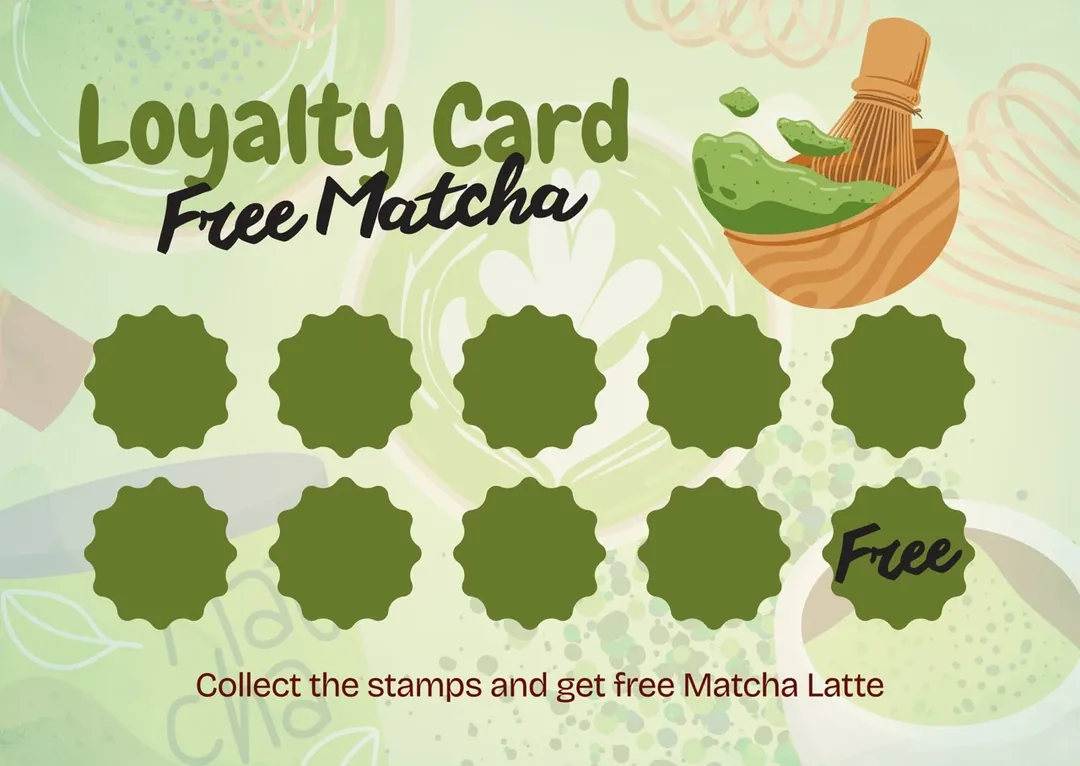
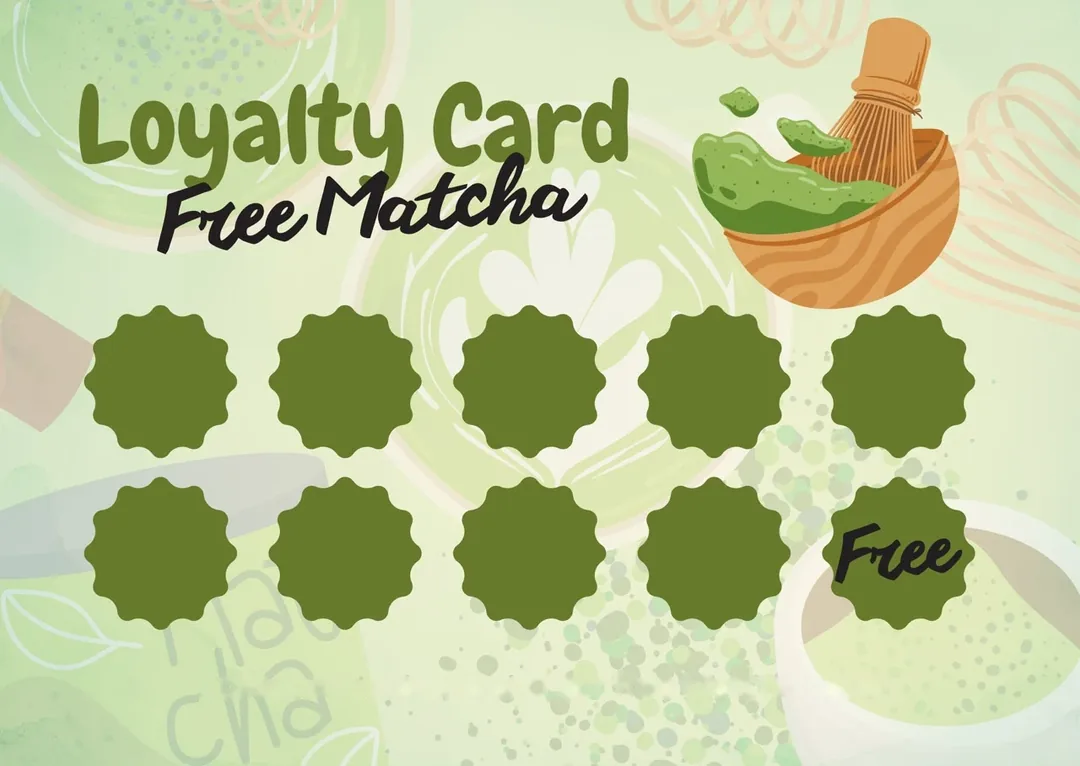
Use the new front card picture with the member's name and card number, and fix the stamp card caption
The front of the loyalty card is now the Mori Matcha picture, sized like the stamp
card, with the member's name and unique card number on a soft strip. The stamp
card's old baked-in caption (free Matcha Latte) is replaced by real text that
says a free drink of your choice, matching the rest of the site.

Changed region(s): [[0.1833, 0.8708, 0.825, 0.9308]]

diff --git a/src/styles/style.css b/src/styles/style.css
@@ -2342,25 +2342,41 @@ button.btn-ghost:hover { background: var(--forest); color: var(--cream-soft); }
 
 .loyalty-front {
   position: relative;
+  aspect-ratio: 1280 / 908;
   overflow: hidden;
-  aspect-ratio: 1.586 / 1;
-  display: flex;
-  flex-direction: column;
-  padding: 7% 8%;
   border-radius: 20px;
-  background: linear-gradient(145deg, #345040 0%, #2d4433 45%, #1c2b1f 100%);
-  color: var(--cream-soft);
-  box-shadow: 0 18px 40px rgba(28, 43, 31, 0.28);
+  background: #d9e8c2;
+  box-shadow: 0 18px 40px rgba(28, 43, 31, 0.2);
+  container-type: inline-size;
+  -webkit-user-select: none;
+  user-select: none;
 }
 
-.loyalty-front-leaf { position: absolute; right: -6%; bottom: -14%; width: 62%; pointer-events: none; }
-.loyalty-front-top { margin: 0; font-size: 0.72rem; letter-spacing: 0.28em; opacity: 0.8; }
-.loyalty-front-brand { margin: auto 0 0; font-family: 'Cormorant Garamond', serif; font-size: clamp(2rem, 8vw, 3rem); letter-spacing: 0.08em; line-height: 1; }
-.loyalty-front-brand span { font-style: italic; letter-spacing: 0.02em; color: #b5cf82; }
-.loyalty-front-tag { margin: 6px 0 0; font-size: 0.74rem; letter-spacing: 0.16em; text-transform: uppercase; opacity: 0.75; }
-.loyalty-front-foot { display: flex; justify-content: space-between; gap: 12px; margin-top: 7%; padding-top: 10px; border-top: 1px solid rgba(236, 225, 200, 0.25); font-size: 0.82rem; letter-spacing: 0.06em; }
-.loyalty-front-foot span:first-child { overflow: hidden; text-overflow: ellipsis; white-space: nowrap; }
-.loyalty-front-foot span:last-child { font-variant-numeric: tabular-nums; letter-spacing: 0.14em; }
+/* Name and card number on a soft frosted strip, so they read clearly on the picture */
+.loyalty-front-bar {
+  position: absolute;
+  left: 4.5%;
+  right: 4.5%;
+  bottom: 5%;
+  display: flex;
+  justify-content: space-between;
+  align-items: flex-end;
+  gap: 3cqw;
+  padding: 2.2cqw 3.2cqw;
+  border: 1px solid rgba(255, 255, 255, 0.65);
+  border-radius: 3.4cqw;
+  background: rgba(247, 251, 240, 0.8);
+  -webkit-backdrop-filter: blur(6px);
+  backdrop-filter: blur(6px);
+  color: var(--forest);
+  box-shadow: 0 6px 18px rgba(28, 43, 31, 0.12);
+}
+
+.loyalty-front-bar small { display: block; font-size: 1.55cqw; letter-spacing: 0.2em; text-transform: uppercase; opacity: 0.7; }
+.loyalty-front-who { min-width: 0; flex: 1; }
+.loyalty-front-who span { display: block; overflow: hidden; text-overflow: ellipsis; white-space: nowrap; font-family: 'Cormorant Garamond', serif; font-size: 4.2cqw; font-weight: 600; line-height: 1.15; }
+.loyalty-front-id { text-align: right; flex: none; }
+.loyalty-front-id span { display: block; font-size: 3.3cqw; font-weight: 500; letter-spacing: 0.14em; font-variant-numeric: tabular-nums; line-height: 1.3; }
 
 .loyalty-back { margin: 0; }
 
@@ -2378,6 +2394,23 @@ button.btn-ghost:hover { background: var(--forest); color: var(--cream-soft); }
 }
 
 .loyalty-sheet-bg { position: absolute; inset: 0; width: 100%; height: 100%; display: block; pointer-events: none; }
+.loyalty-sheet { container-type: inline-size; }
+.loyalty-sheet-caption {
+  position: absolute;
+  left: 0;
+  right: 0;
+  top: 87.2%;
+  margin: 0;
+  text-align: center;
+  white-space: nowrap;
+  font-family: 'Jost', sans-serif;
+  font-size: 11px;
+  font-size: 2.7cqw;
+  font-weight: 500;
+  line-height: 1.3;
+  color: #6a1a10;
+  pointer-events: none;
+}
 .loyalty-slots { position: absolute; inset: 0; margin: 0; padding: 0; list-style: none; }
 .loyalty-slot { position: absolute; aspect-ratio: 1; touch-action: manipulation; }
 .loyalty-slot.is-filled { cursor: pointer; }

diff --git a/src/components/LoyaltyCardArt.jsx b/src/components/LoyaltyCardArt.jsx
@@ -1,5 +1,5 @@
 import { useEffect, useRef, useState } from 'react'
-import { STAMPS_PER_REWARD } from '../data/loyalty'
+import { REWARD_TEXT, STAMPS_PER_REWARD } from '../data/loyalty'
 
 // The digital loyalty card: a green front and the stamp card. Pure display; the stamps themselves live on the server and
 // are added by the café team, so nothing on this card can be edited from the browser.
@@ -35,21 +35,24 @@ function Stamp({ index, animate }) {
   )
 }
 
+// The front of the card is Mori's own picture. The member's name and card number sit on a soft strip at the bottom.
 export function LoyaltyCardFront({ label, cardNumber }) {
   return (
-    <div className="loyalty-front" role="img" aria-label={`Mori Matcha loyalty card${label ? ' for ' + label : ''}`}>
-      <svg className="loyalty-front-leaf" viewBox="0 0 200 200" aria-hidden="true">
-        <path d="M100 190C40 160 20 90 100 20c80 70 60 140 0 170z" fill="none" stroke="#ece1c8" strokeWidth="1.5" opacity="0.18" />
-        <path d="M100 185V40M100 110l-34-30M100 140l40-36" stroke="#ece1c8" strokeWidth="1.2" opacity="0.18" strokeLinecap="round" />
-      </svg>
-      <p className="loyalty-front-top">LOYALTY CARD</p>
-      <p className="loyalty-front-brand">
-        MORI <span>Matcha</span>
-      </p>
-      <p className="loyalty-front-tag">Freshly whisked &middot; Made to order</p>
-      <div className="loyalty-front-foot">
-        <span>{label || 'Your name'}</span>
-        <span>{cardNumber || 'LC-····'}</span>
+    <div
+      className="loyalty-front"
+      role="img"
+      aria-label={`Mori Matcha loyalty card${label ? ' for ' + label : ''}${cardNumber ? ', card number ' + cardNumber : ''}`}
+    >
+      <img className="loyalty-sheet-bg" src="/loyalty/card-front.webp" alt="" width="1080" height="766" draggable="false" decoding="async" />
+      <div className="loyalty-front-bar">
+        <div className="loyalty-front-who">
+          <small>Member</small>
+          <span>{label || 'Your name'}</span>
+        </div>
+        <div className="loyalty-front-id">
+          <small>Card no.</small>
+          <span>{cardNumber || 'LC-····'}</span>
+        </div>
       </div>
     </div>
   )
@@ -108,6 +111,7 @@ export function LoyaltyCardBack({ balance = 0, freshFrom = null, autoplay = fals
     <div className="loyalty-back">
       <div className="loyalty-sheet" ref={sheet}>
         <img className="loyalty-sheet-bg" src="/loyalty/card-design.webp" alt="" width="1080" height="766" draggable="false" decoding="async" />
+        <p className="loyalty-sheet-caption">Collect the stamps and get {REWARD_TEXT}</p>
         <ol className="loyalty-slots" aria-label={`${filled} of ${STAMPS_PER_REWARD} stamps collected`}>
           {slots}
           <li className={'loyalty-slot loyalty-slot-free' + (ready ? ' is-ready' : '')} style={slotStyle(STAMPS_PER_REWARD)}>

diff --git a/README.md b/README.md
@@ -36,7 +36,7 @@ event inquiry. Nothing is sent unless you press the Instagram button, so it is s
   question** with a microphone button (speech recognition in the browser). It never takes orders itself; it points
   customers to the cart and the Instagram step. See "The assistant" below.
 - **Digital loyalty card**: collect 9 stamps and the 10th drink is free. The card is a private page on the customer's phone
-  (a green card front, and a stamp card where a matcha-bowl stamp is pressed onto a seal for each drink, with the Free seal glowing when it is earned), and
+  (a front with the member's name and card number, and a stamp card where a matcha-bowl stamp is pressed onto a seal for each drink, with the Free seal glowing when it is earned), and
   the café team adds stamps from the admin page. Built so it cannot be cheated; see "The loyalty card" below.
 - **SEO and PWA**: meta tags, JSON-LD kept in sync with the live opening hours, per-page share previews, an
   installable web app manifest, a sitemap, and Vercel Analytics for production monitoring.
